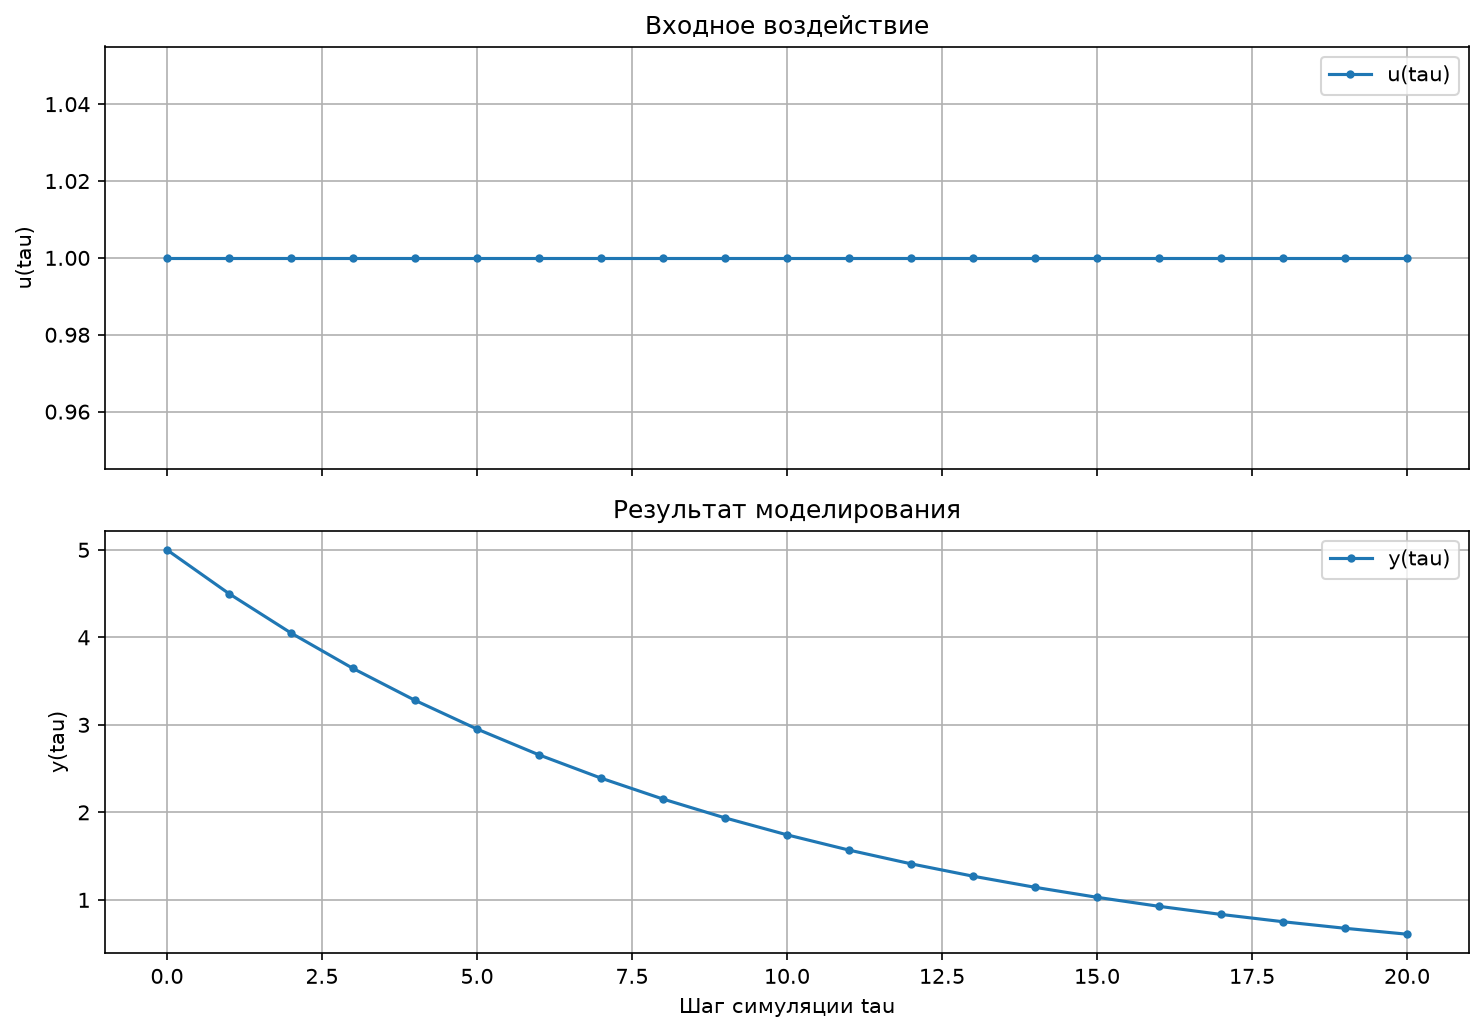
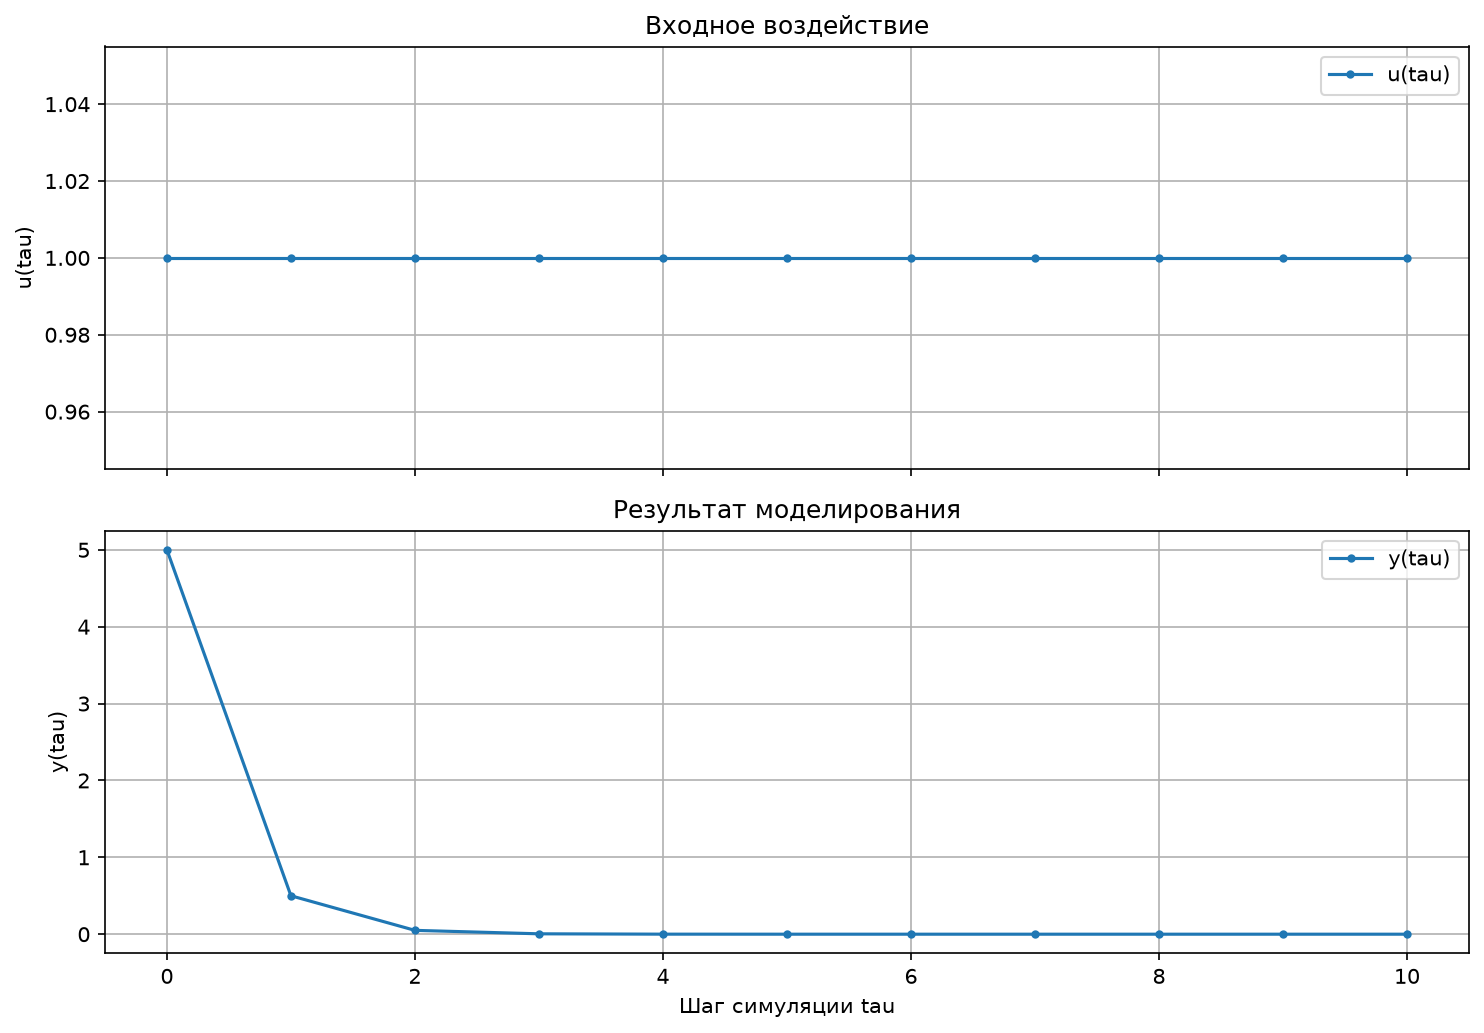
Лабораторная работа 1

diff --git a/trunk/as06722/task_01/src/plot.py b/trunk/as06722/task_01/src/plot.py
@@ -1,4 +1,3 @@
-
 import csv
 import sys
 from pathlib import Path
@@ -7,75 +6,68 @@ try:
     import matplotlib.pyplot as plt
 except ImportError:
     print("Ошибка: библиотека matplotlib не установлена.")
-    print("Установи её командой: python -m pip install matplotlib")
+    print("Установите её командой: py -m pip install matplotlib")
     sys.exit(1)
 
 
-def find_csv():
-    # Если путь передан при запуске, используем его.
-    if len(sys.argv) > 1:
-        path = Path(sys.argv[1]).expanduser()
-
+def find_csv(argument=None):
+    if argument:
+        path = Path(argument).expanduser()
         if path.is_file():
             return path.resolve()
-
         print(f"Указанный CSV-файл не найден: {path}")
         return None
 
     script_dir = Path(__file__).resolve().parent
     project_dir = script_dir.parent
-
-    # Проверяем наиболее вероятные каталоги.
     candidates = [
         Path.cwd() / "results.csv",
-        script_dir / "results.csv",
         project_dir / "results.csv",
+        script_dir / "results.csv",
         project_dir / "build" / "results.csv",
-        project_dir / "out" / "build" / "results.csv",
-        project_dir / "out" / "build" / "x64-Debug" / "results.csv",
-        project_dir / "out" / "build" / "x64-Release" / "results.csv",
     ]
 
-    checked = set()
-
     for candidate in candidates:
-        candidate = candidate.resolve()
-
-        if candidate not in checked:
-            checked.add(candidate)
-
-            if candidate.is_file():
-                return candidate
-
-    # Дополнительно ищем файл в подпапках проекта.
-    for folder in (project_dir, Path.cwd()):
-        try:
-            for candidate in folder.glob("**/results.csv"):
-                if candidate.is_file():
-                    return candidate.resolve()
-        except (PermissionError, OSError):
-            continue
+        if candidate.is_file():
+            return candidate.resolve()
 
     return None
 
 
+def parse_arguments():
+    csv_argument = None
+    model_number = None
+
+    if len(sys.argv) >= 2:
+        if sys.argv[1] in {"1", "2", "3"}:
+            model_number = sys.argv[1]
+        else:
+            csv_argument = sys.argv[1]
+
+    if len(sys.argv) >= 3 and sys.argv[2] in {"1", "2", "3"}:
+        model_number = sys.argv[2]
+
+    return csv_argument, model_number
+
+
 def main():
-    csv_path = find_csv()
+    csv_argument, model_number = parse_arguments()
+    csv_path = find_csv(csv_argument)
 
     if csv_path is None:
         print("Не удалось найти results.csv.")
-        print("Проверь, что программа C++ уже выполнила расчёт.")
-        print("Можно передать полный путь к CSV при запуске:")
-        print('python src/plot.py "D:/путь/к/results.csv"')
+        print('Пример запуска: py src/plot.py "results.csv" 1')
         sys.exit(1)
 
-    print(f"Найден CSV-файл: {csv_path}")
+    if model_number not in {"1", "2", "3"}:
+        print("Ошибка: номер модели должен быть 1, 2 или 3.")
+        sys.exit(1)
 
     try:
         with csv_path.open("r", newline="", encoding="utf-8-sig") as file:
             reader = csv.DictReader(file)
-
             required = {"tau", "u", "y"}
+
             if not reader.fieldnames or not required.issubset(reader.fieldnames):
                 print("Ошибка: в CSV должны быть столбцы tau,u,y.")
                 sys.exit(1)
@@ -83,13 +75,12 @@ def main():
             rows = list(reader)
 
         if not rows:
-            print("CSV-файл пустой.")
+            print("Ошибка: CSV-файл пустой.")
             sys.exit(1)
 
         tau = [int(row["tau"]) for row in rows]
         u = [float(row["u"]) for row in rows]
         y = [float(row["y"]) for row in rows]
-
     except (OSError, ValueError, csv.Error) as error:
         print(f"Ошибка чтения CSV: {error}")
         sys.exit(1)
@@ -111,27 +102,6 @@ def main():
 
     fig.tight_layout()
 
-    # Номер модели передаётся вторым аргументом:
-    # python src/plot.py "путь/results.csv" 1
-    # Если CSV не передан, номер модели указывается первым аргументом:
-    # python src/plot.py 1
-    model_number = None
-
-    if len(sys.argv) > 1 and sys.argv[1] in {"1", "2", "3"}:
-        model_number = sys.argv[1]
-    elif len(sys.argv) > 2 and sys.argv[2] in {"1", "2", "3"}:
-        model_number = sys.argv[2]
-
-    if model_number is None:
-     model_number = input(
-        "Выбери модель (1 — Model 1.4, 2 — Model 2.9, 3 — Model 3.1): "
-    ).strip()
-
-    if model_number not in {"1", "2", "3"}:
-        print("Ошибка: нужно ввести 1, 2 или 3.")
-        plt.close(fig)
-        sys.exit(1)
-
     image_names = {
         "1": "Model1.4.png",
         "2": "Model2.9.png",
@@ -141,13 +111,11 @@ def main():
     project_dir = Path(__file__).resolve().parent.parent
     doc_dir = project_dir / "doc"
     doc_dir.mkdir(parents=True, exist_ok=True)
-
     image_path = doc_dir / image_names[model_number]
-    fig.savefig(image_path, dpi=150, bbox_inches="tight")
 
+    fig.savefig(image_path, dpi=150, bbox_inches="tight")
     print(f"График сохранён: {image_path}")
     print("Открываю окно графика...")
-
     plt.show()
 
 

diff --git a/trunk/as06722/task_01/src/main.cpp b/trunk/as06722/task_01/src/main.cpp
@@ -3,6 +3,8 @@
 #include <iomanip>
 #include <iostream>
 #include <memory>
+#include <filesystem>
+#include <cstdlib>
 #include <stdexcept>
 #include <string>
 #include <vector>
@@ -12,6 +14,10 @@
 #define NOMINMAX
 #endif
 #include <windows.h>
+#endif
+
+#ifndef PROJECT_SOURCE_DIR
+#define PROJECT_SOURCE_DIR "."
 #endif
 
 struct Sample {
@@ -135,6 +141,23 @@ int readInt(const std::string& prompt, int minValue, int maxValue) {
     }
 }
 
+int runPlot(const std::filesystem::path& csvPath, int modelChoice) {
+    const std::filesystem::path projectDir = std::filesystem::path(PROJECT_SOURCE_DIR);
+    const std::filesystem::path plotPath = projectDir / "src" / "plot.py";
+
+#ifdef _WIN32
+    const std::wstring command = L"py \"" + plotPath.wstring() +
+                                 L"\" \"" + csvPath.wstring() +
+                                 L"\" " + std::to_wstring(modelChoice);
+    return _wsystem(command.c_str());
+#else
+    const std::string command = "python3 \"" + plotPath.string() +
+                                "\" \"" + csvPath.string() +
+                                "\" " + std::to_string(modelChoice);
+    return std::system(command.c_str());
+#endif
+}
+
 int main() {
 #ifdef _WIN32
     SetConsoleOutputCP(CP_UTF8);
@@ -178,8 +201,10 @@ int main() {
         const InputSignal signal(static_cast<InputType>(signalChoice));
         const auto samples = model->simulate(n, y0, dt, signal);
 
-        std::ofstream csv("results.csv");
-        if (!csv) throw std::runtime_error("Не удалось создать results.csv в текущей папке.");
+        const std::filesystem::path projectDir = std::filesystem::path(PROJECT_SOURCE_DIR);
+        const std::filesystem::path csvPath = projectDir / "results.csv";
+        std::ofstream csv(csvPath);
+        if (!csv) throw std::runtime_error("Не удалось создать results.csv в каталоге проекта.");
         csv << "tau,u,y\n" << std::setprecision(12);
         std::cout << "\n" << model->name() << "\n";
         std::cout << std::left << std::setw(10) << "tau"
@@ -193,8 +218,15 @@ int main() {
                 << sample.input << ',' << sample.output << '\n';
         }
         csv.close();
-        std::cout << "\nРезультаты сохранены в results.csv\n";
-        std::cout << "Для построения графика запустите src/plot.py с файлом results.csv.\n";
+        std::cout << "\nРезультаты сохранены в: " << csvPath.string() << '\n';
+        std::cout << "Построение графика...\n" << std::flush;
+
+        const int plotResult = runPlot(csvPath, modelChoice);
+        if (plotResult != 0) {
+            std::cerr << "Не удалось автоматически открыть график.\n"
+                      << "Проверьте Python launcher (py) и Matplotlib.\n"
+                      << "Установка Matplotlib: py -m pip install matplotlib\n";
+        }
     } catch (const std::exception& ex) {
         std::cerr << "Ошибка: " << ex.what() << '\n';
         return 1;
